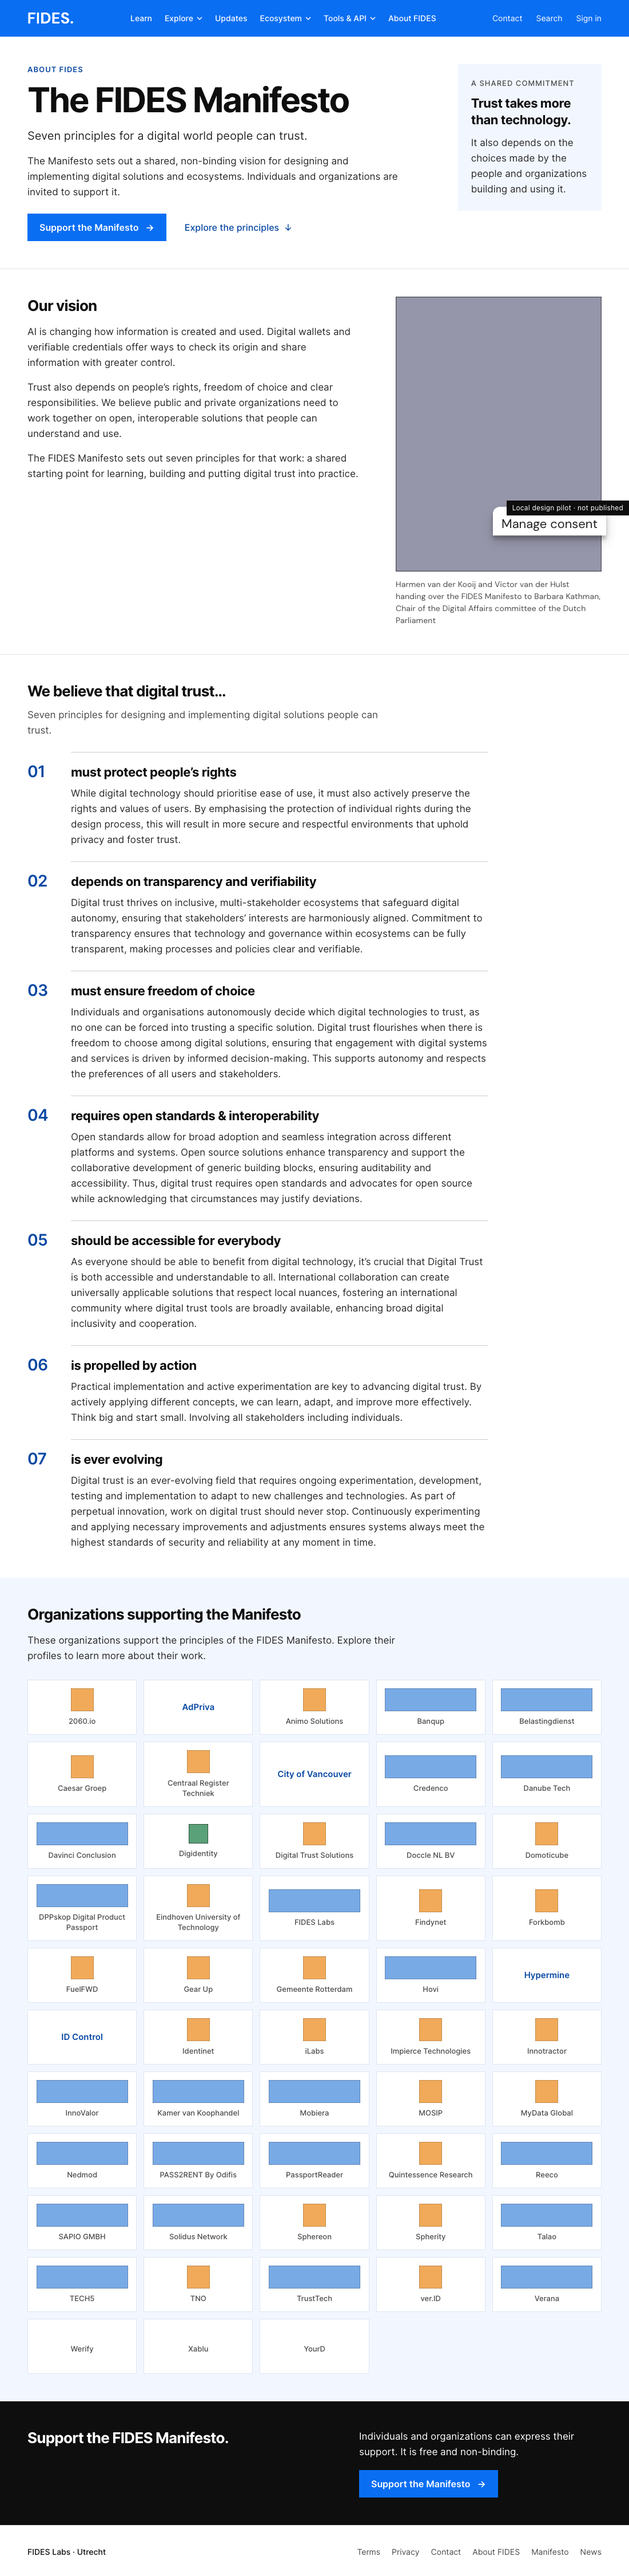
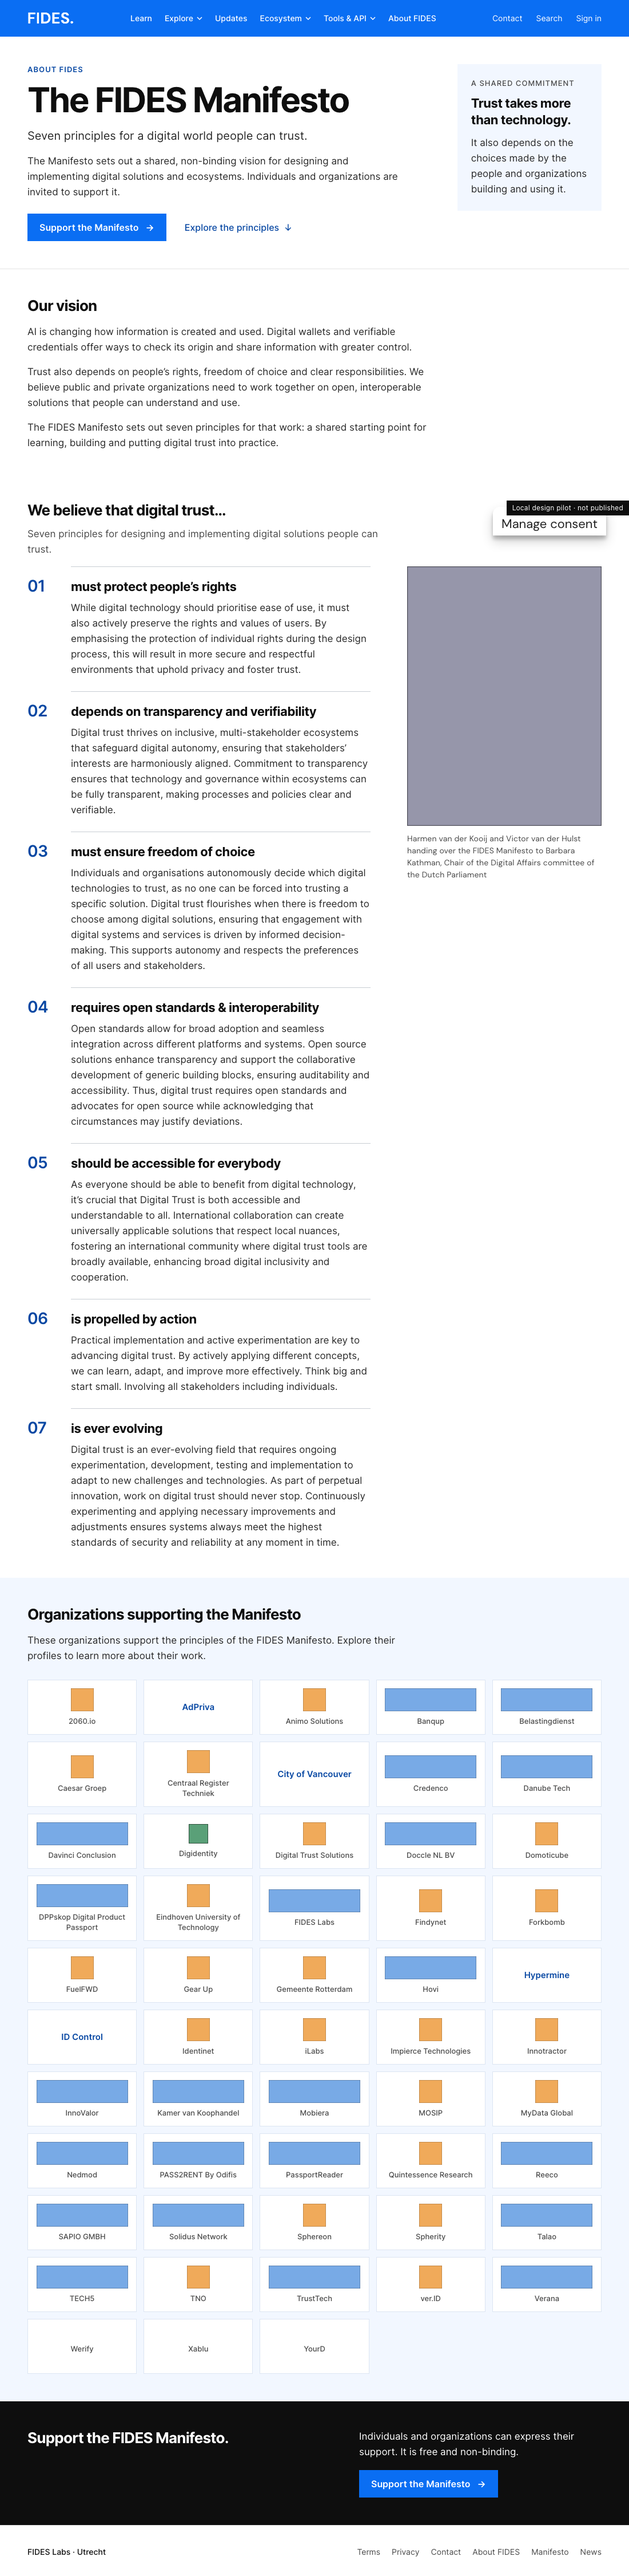
Pilot: Manifesto photo beside principles, tests and screenshots

Changed region(s): [[0.0309, 0.0934, 0.9582, 0.6225], [0.68, 0.5602, 0.7109, 0.5914]]

diff --git a/scripts/design-pilot/tests/manifesto-behaviour.php b/scripts/design-pilot/tests/manifesto-behaviour.php
@@ -107,6 +107,8 @@ remove_all_filters('fides_manifesto_supporter_source');
 // ---- Our vision and the original photo.
 $html = Fides_DS_Manifesto::render();
 $vision = strpos($html, 'Our vision');
+$photoPos = strpos($html, 'fides-manifesto__photo"');
+$check($photoPos !== false && $photoPos > $vision && $photoPos < strpos($html, 'id="principles"') && $photoPos < strpos($html, 'fides-manifesto__list'), 'source order: vision, photo, principles heading, list');
 $check($vision !== false && strpos($html, 'id="principles"') > $vision && strpos($html, 'fides-manifesto__hero') < $vision, 'Our vision sits between hero and principles');
 foreach (array('AI is changing how information is created and used.', 'Trust also depends on people’s rights, freedom of choice and clear responsibilities.', 'The FIDES Manifesto sets out seven principles for that work') as $line) {
     $check(strpos($html, $line) !== false, 'vision copy: ' . substr($line, 0, 40));
@@ -118,7 +120,7 @@ $check(strpos($html, 'Seven principles for designing and implementing digital so
 $check(strpos($html, 'The existing form') === false, 'no visitor line about the existing form');
 add_filter('fides_manifesto_photo', '__return_empty_array');
 $html = Fides_DS_Manifesto::render();
-$check(strpos($html, 'fides-manifesto__photo"') === false && strpos($html, 'fides-manifesto__vision-grid--text') !== false && strpos($html, 'Our vision') !== false, 'without a photo the vision text stays');
+$check(strpos($html, 'fides-manifesto__photo"') === false && strpos($html, 'fides-manifesto__principles-grid--no-photo') !== false && strpos($html, 'Our vision') !== false, 'without a photo the vision text stays');
 remove_all_filters('fides_manifesto_photo');
 
 // ---- Empty data: the heading stays, no tiles, a quiet notice.

diff --git a/scripts/design-pilot/learn/README.md b/scripts/design-pilot/learn/README.md
@@ -250,7 +250,7 @@ Order under the hero: Learn strip, theme index, latest updates.
 ## FIDES Manifesto (Paper 27.2 / 27.3 / 27.4)
 
 - Page `/fides-design-pilot/manifesto/` with `[fides_manifesto detail_url="/fides-design-pilot/organization/"]` (tiles `Fides_DS_Manifesto`, `assets/manifesto.css`, `assets/manifesto.js`); the shell path `/manifesto/` (footer, About) maps to it in the pilot guard.
-- Our vision (between hero and principles): three paragraphs from Paper 27.2 and the original handover photo, right of the text from 900 px and below it on narrower screens. The photo is the WordPress media file on fides.community (`manifesto-768x1024.jpg` with srcset, 3:4), shown whole (never cropped), with the verified original caption, worded neutrally and without any claim of formal Parliament support. Staging can point at its own copy through the `fides_manifesto_photo` filter (empty array removes the photo).
+- Our vision (between hero and principles): three paragraphs from Paper 27.2 in a reading column of at most 720px. The original handover photo (340px column) sits right of the principle list from 1100px, top aligned with principle 1 and never overlapping it; below 1100px it stacks after the vision and before the principles heading (`#principles` is the heading, so the anchor skips the photo). The photo is the WordPress media file on fides.community (`manifesto-768x1024.jpg` with srcset, 3:4), shown whole (never cropped), with the verified original caption, worded neutrally and without any claim of formal Parliament support. Staging can point at its own copy through the `fides_manifesto_photo` filter (empty array removes the photo).
 - The seven principles keep their original titles and full texts (from fides.community/manifesto); the short texts in Paper are layout placeholders only.
 - Supporters: every organization with `fidesManifestoSupporter === true` from the organization catalog source, alphabetical, no paging. A tile shows the logo (as the organization listing resolves it) with a modest 13px name below it, or a single readable name tile when the logo is missing, fails to load, or is smaller than 32 px. Logos are limited to 160 x 40 px (110 x 36 px below 768 px), keep their proportions and are never scaled up (`width/height:auto` plus max sizes). Each tile links to the organization profile (`detail_url` page with `?org=`; without it the canonical organization route).
 - Signing is the existing WPForms form on the live Manifesto page (`#ratify-the-fides-manifesto-today`). The pilot has no copy and collects nothing; the support actions use the `fides_manifesto_sign_url` filter (pilot guard: the live URL; default: the form anchor on the site's own Manifesto page).
